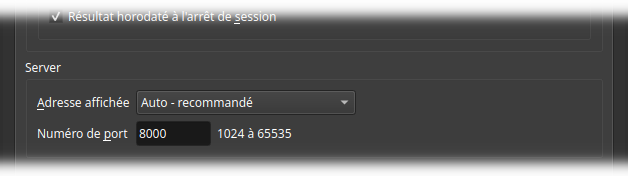
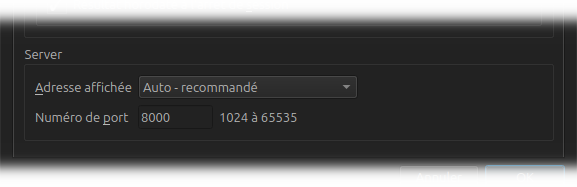
update v1.0 prefs output tab docs screenshots

diff --git a/website/content/fr/docs/v1.0/userguide/preferences/output/_index.md b/website/content/fr/docs/v1.0/userguide/preferences/output/_index.md
@@ -2,7 +2,7 @@
 title: "Onglet Sortie"
 description: "Documentation de l'onglet Sortie des préférences d'ALS"
 author: "ALS Team"
-lastmod: 2026-06-07T15:53:25Z
+lastmod: 2026-06-10T17:50:29Z
 keywords: [ "ALS output settings", "préférences Sortie d'ALS" ]
 draft: false
 type: "docs"
@@ -13,10 +13,10 @@ weight: 100333
 
 Les réglages régissant les sorties d'ALS sont présentés dans l'onglet `Sortie`.
 
+# Vue d'ensemble {#overview}
+
 <div class="row">
 <div class="col-md-4">
-
-# Vue d'ensemble {#overview}
 
 Cet onglet est divisé en 2 sections :
 
@@ -28,8 +28,8 @@ Cet onglet est divisé en 2 sections :
 {{< center >}}
 {{< figure src="whole_tab.png"
 caption="L'onglet Sortie des préférences"
-width="628px"
-height="663px"
+width="577px"
+height="546px"
 alt="Fenêtre des préférences ALS avec l'onglet Sortie sélectionné, affichant les options de format, les dossiers de sortie, l'enregistrement auto, l'adresse affichée et le numéro de port du serveur." >}}
 {{< /center >}}
 
@@ -51,8 +51,8 @@ ALS enregistre les images de la sortie principale dans l'un des formats suivants
 {{< center >}}
 {{< figure src="formats.png"
 caption="Préférences du format de fichier de la sortie principale"
-width="628px"
-height="203px"
+width="577px"
+height="212px"
 alt="" >}}
 {{< /center >}}
 
@@ -80,8 +80,8 @@ ALS utilise deux dossiers de sortie :
 {{< center >}}
 {{< figure src="folders.png"
 caption="Préférences des dossiers de sortie"
-width="622px"
-height="213px"
+width="577px"
+height="199px"
 alt="" >}}
 {{< /center >}}
 
@@ -113,15 +113,14 @@ Active la sauvegarde, à **chaque arrêt de session**, du **dernier** résultat 
 {{% alert title="💡" color="light" %}}
 Cette fonction est utile quand vous enchaînez les sessions sur des cibles différentes
 
-À chaque arrêt de session, la meilleure version de l'image pour cette cible est sauvegardée dans un fichier qui
-ne risque pas d'être écrasé
+À chaque arrêt de session, le dernier résultat est sauvegardé dans un fichier qui ne risque pas d'être écrasé
 {{% /alert %}}
 
 {{< center >}}
 {{< figure src="autosave.png"
 caption="Préférences de l'autosave"
-width="622px"
-height="178px"
+width="577px"
+height="154px"
 alt="" >}}
 {{< /center >}}
 
@@ -136,8 +135,8 @@ Ici sont configurés l'adresse affichée et le port d'écoute du serveur d'image
 {{< center >}}
 {{< figure src="web_config.png"
 caption="Réglages du serveur d'images"
-width="628px"
-height="176px"
+width="577px"
+height="187px"
 alt="Réglages du serveur d'images affichant la liste Adresse affichée réglée sur Auto - recommandé et le numéro de port réglé sur 8000." >}}
 {{< /center >}}
 

diff --git a/website/content/en/docs/v1.0/userguide/preferences/output/_index.md b/website/content/en/docs/v1.0/userguide/preferences/output/_index.md
@@ -2,7 +2,7 @@
 title: "Output Tab"
 description: "ALS Preferences Output Tab Documentation"
 author: "ALS Team"
-lastmod: 2026-06-07T15:53:25Z
+lastmod: 2026-06-10T17:50:29Z
 keywords: ["ALS output settings", "ALS Output preferences"]
 draft: false
 type: "docs"
@@ -13,10 +13,10 @@ weight: 100333
 
 The settings governing ALS outputs are presented in the `Output` tab.
 
+# Overview {#overview}
+
 <div class="row">
 <div class="col-md-4">
-
-# Overview {#overview}
 
 This tab is divided into 2 sections:
 
@@ -28,8 +28,8 @@ This tab is divided into 2 sections:
 {{< center >}}
 {{< figure src="whole_tab.png"
 caption="The Output tab in preferences"
-width="628px"
-height="663px"
+width="551px"
+height="546px"
 alt="ALS preferences window with the Output tab selected, showing save format options, output folder settings, autosave, displayed address, and port number settings." >}}
 {{< /center >}}
 
@@ -50,8 +50,8 @@ ALS saves the main output images in one of the following formats:
 {{< center >}}
 {{< figure src="formats.png"
 caption="Main output file format preferences"
-width="622px"
-height="213px"
+width="551px"
+height="212px"
 alt="" >}}
 {{< /center >}}
 
@@ -77,8 +77,8 @@ ALS uses two output folders:
 {{< center >}}
 {{< figure src="folders.png"
 caption="Output folders preferences"
-width="622px"
-height="213px"
+width="551px"
+height="209px"
 alt="" >}}
 {{< /center >}}
 
@@ -110,17 +110,16 @@ Activates the saving, on **each session stop**, of the **last** processing resul
 - **Format**: Configured output format
 
 {{% alert title="💡" color="light" %}}
-This function is useful when you chain sessions on different targets
+This feature is useful when you chain sessions on different targets
 
-At each session stop, the best image for that target is saved in a file that is not at risk 
-of being overwritten
+At each session stop, the latest result is saved in a file that is not at risk of being overwritten
 {{% /alert %}}
 
 {{< center >}}
 {{< figure src="autosave.png"
 caption="Autosave preferences"
-width="622px"
-height="179px"
+width="551px"
+height="150px"
 alt="" >}}
 {{< /center >}}
 
@@ -135,8 +134,8 @@ Here are the settings for the ALS image server.
 {{< center >}}
 {{< figure src="web_config.png"
 caption="Image server settings"
-width="628px"
-height="187px"
+width="551px"
+height="177px"
 alt="Image server settings showing the Displayed address dropdown set to Auto - recommended and the port number set to 8000." >}}
 {{< /center >}}
 
